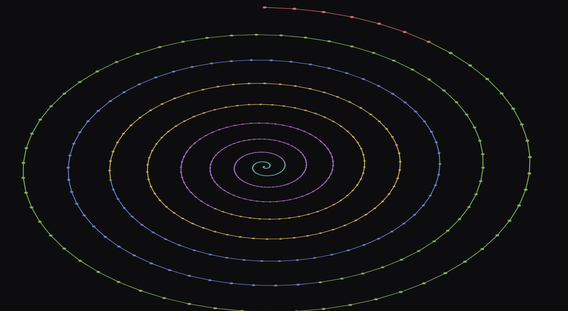
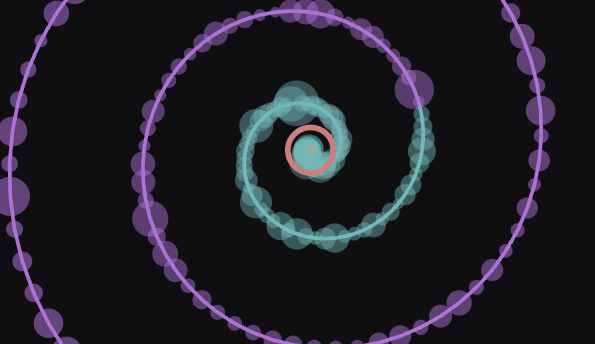
ladder final version

diff --git a/src/apps/tractatusapp/templates/tractatusapp/ladder/ladder.html b/src/apps/tractatusapp/templates/tractatusapp/ladder/ladder.html
@@ -39,7 +39,7 @@
 			border-radius: 0 4px 4px 0;
 			background: rgba(8, 12, 16, 0.68);
 			cursor: pointer;
-			transition: opacity 0.7s ease, filter 0.7s ease, background 0.4s ease;
+			transition: background 0.4s ease;
 			opacity: 1;
 			filter: grayscale(0);
 		}
@@ -48,7 +48,6 @@
 
 		.rung:hover { background: rgba(8, 12, 16, 0.8); }
 
-		.rung.dissolved { opacity: 0.06; filter: grayscale(1); }
 		.rung.current { background: rgba(8, 12, 16, 0.84); box-shadow: 0 0 0 1px rgba(255, 255, 255, 0.12); }
 
 		#finale {
@@ -239,16 +238,45 @@
 			'<span class="finale-label">Proposition ' + last.name + '</span>' + last.text
 		);
 
-		// dissolve rungs once scrolled past; restore them if scrolled back up
-		var dissolveObserver = new IntersectionObserver(function (entries) {
+		// dissolve rungs continuously as they approach and cross the top of the
+		// viewport, so the fade is visible on screen rather than happening
+		// entirely above the fold
+		var FADE_START = 300;  // px from viewport top where the dissolve begins (still fully visible)
+		var FADE_END = -60;    // px from viewport top where the dissolve completes (just past the fold)
+		var MIN_OPACITY = 0.06;
+
+		var activeFade = new Set();
+
+		function updateFade(el) {
+			var top = el.getBoundingClientRect().top;
+			var pct = (FADE_START - top) / (FADE_START - FADE_END);
+			pct = Math.max(0, Math.min(1, pct));
+			el.style.opacity = String(1 - pct * (1 - MIN_OPACITY));
+			el.style.filter = "grayscale(" + Math.round(pct * 100) + "%)";
+		}
+
+		var fadeObserver = new IntersectionObserver(function (entries) {
 			entries.forEach(function (entry) {
 				if (entry.isIntersecting) {
-					entry.target.classList.remove("dissolved");
-				} else if (entry.boundingClientRect.top < 0) {
-					entry.target.classList.add("dissolved");
+					activeFade.add(entry.target);
+				} else {
+					activeFade.delete(entry.target);
 				}
+				updateFade(entry.target);
 			});
-		}, { threshold: 0, rootMargin: "0px 0px -8% 0px" });
+		}, {
+			threshold: 0,
+			rootMargin: (-FADE_END) + "px 0px " + (-(window.innerHeight - FADE_START)) + "px 0px",
+		});
+
+		var fadeRAF = null;
+		window.addEventListener("scroll", function () {
+			if (fadeRAF) return;
+			fadeRAF = requestAnimationFrame(function () {
+				activeFade.forEach(updateFade);
+				fadeRAF = null;
+			});
+		}, { passive: true });
 
 		// highlight whichever rung is nearest the vertical center of the viewport
 		var currentObserver = new IntersectionObserver(function (entries) {
@@ -261,7 +289,7 @@
 		}, { threshold: 0, rootMargin: "-45% 0px -45% 0px" });
 
 		document.querySelectorAll(".rung").forEach(function (el) {
-			dissolveObserver.observe(el);
+			fadeObserver.observe(el);
 			currentObserver.observe(el);
 		});
 
